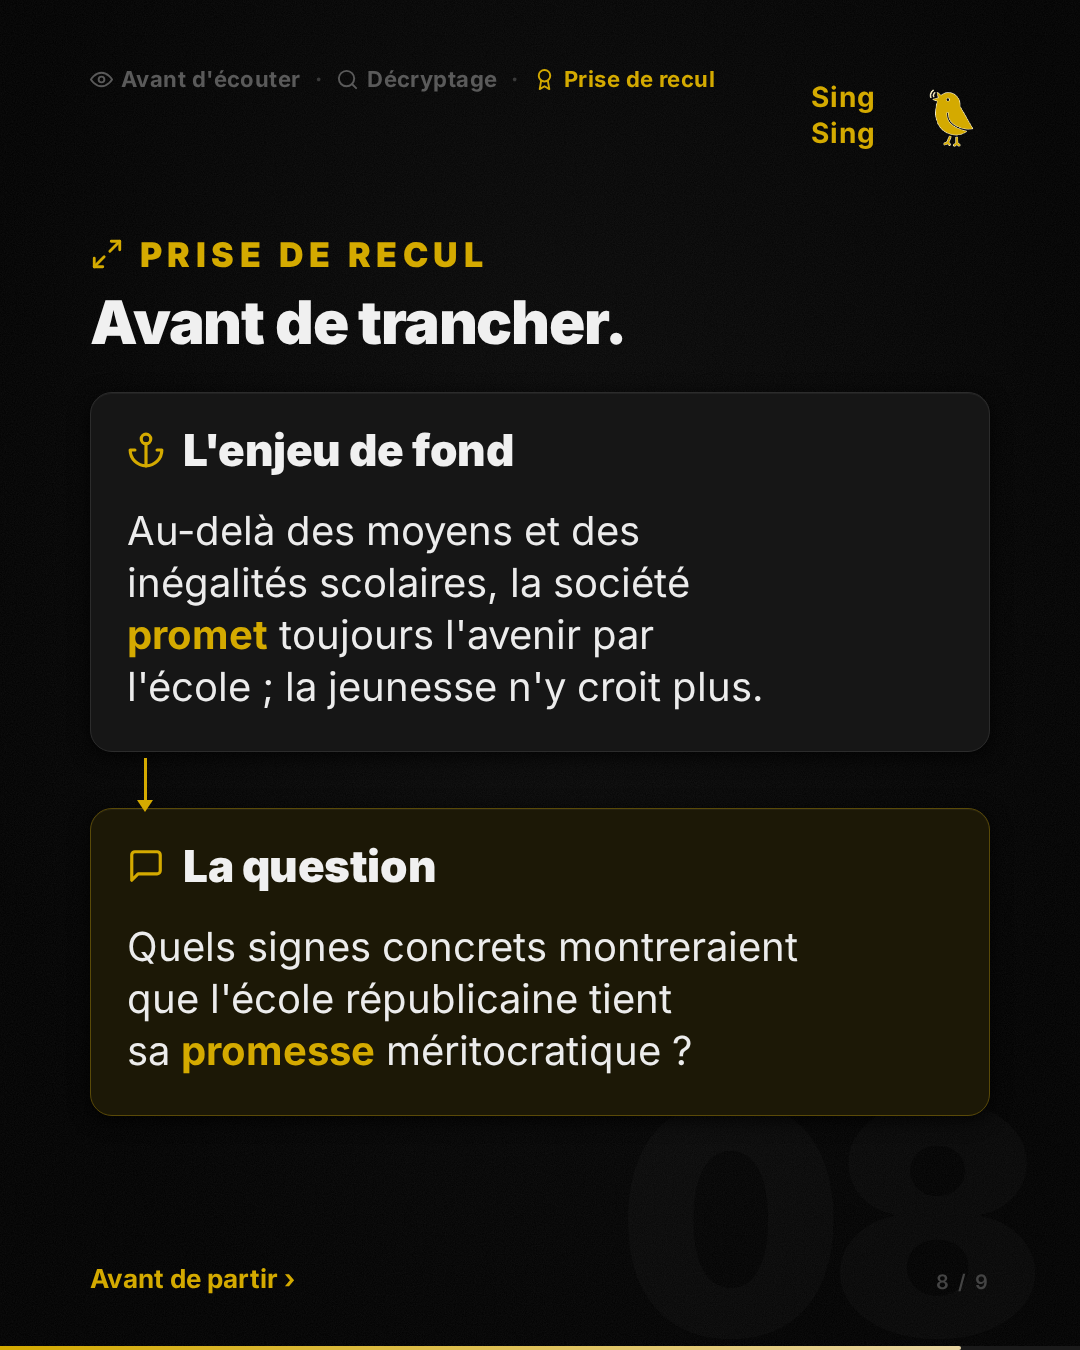
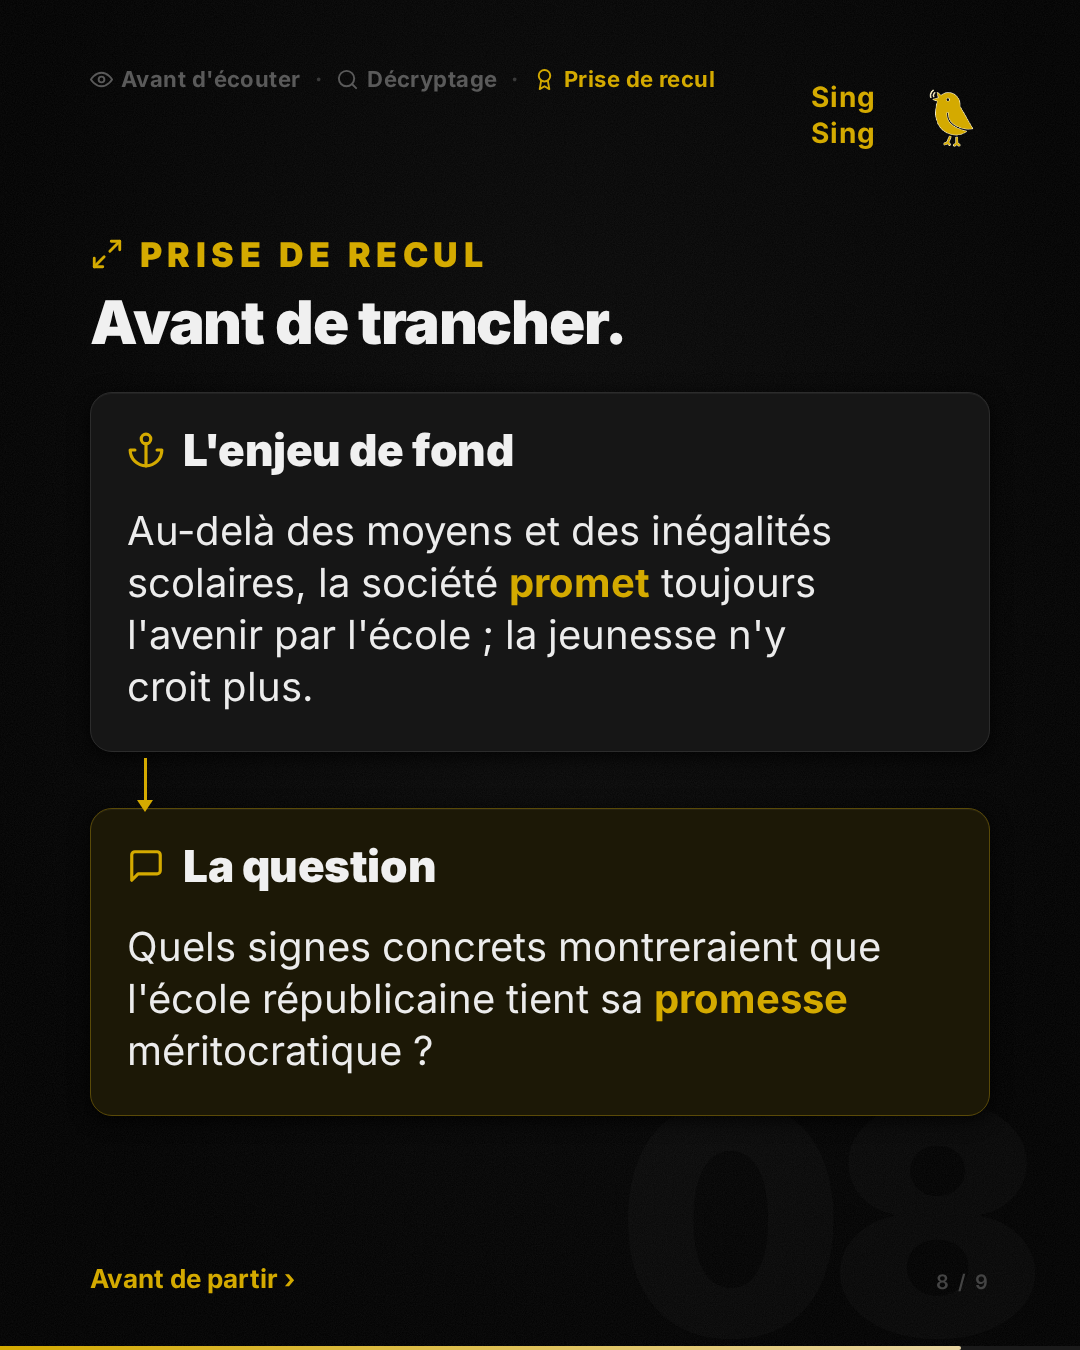
fix(carousel): slide 8 card text fills its line
text-wrap: balance evened the lines out and left the right of each card
empty; pretty fills each line and only reworks the paragraph's end.

Changed region(s): [[0.1222, 0.3733, 0.7639, 0.5289], [0.1222, 0.6844, 0.825, 0.8089]]

diff --git a/samples/podcasts/podcast_1/instagram_carousel_optimized/html/08_prise_de_recul.html b/samples/podcasts/podcast_1/instagram_carousel_optimized/html/08_prise_de_recul.html
@@ -425,7 +425,7 @@ body {
 .q-head .mk { flex: none; }
 .q-head .mk svg { width: 38px; height: 38px; display: block; stroke: #d4aa00; fill: none; stroke-width: 2; stroke-linecap: round; stroke-linejoin: round; }
 .q-label { font-size: 44px; font-weight: 900; line-height: 1.05; letter-spacing: -0.01em; color: #f0f0f0; }
-.card p { font-size: 40px; line-height: 1.3; color: #ececec; text-align: left; hyphens: none; text-wrap: balance; }
+.card p { font-size: 40px; line-height: 1.3; color: #ececec; text-align: left; hyphens: none; text-wrap: pretty; }
 .card p strong { color: #d4aa00; font-weight: 700; }
 </style>
 </head>

diff --git a/renderer/instagram_carousel/templates/article_carousel_optimized_v0/08_prise_de_recul.html b/renderer/instagram_carousel/templates/article_carousel_optimized_v0/08_prise_de_recul.html
@@ -22,7 +22,7 @@
 .q-head .mk { flex: none; }
 .q-head .mk svg { width: 38px; height: 38px; display: block; stroke: #d4aa00; fill: none; stroke-width: 2; stroke-linecap: round; stroke-linejoin: round; }
 .q-label { font-size: 44px; font-weight: 900; line-height: 1.05; letter-spacing: -0.01em; color: #f0f0f0; }
-.card p { font-size: 40px; line-height: 1.3; color: #ececec; text-align: left; hyphens: none; text-wrap: balance; }
+.card p { font-size: 40px; line-height: 1.3; color: #ececec; text-align: left; hyphens: none; text-wrap: pretty; }
 .card p strong { color: #d4aa00; font-weight: 700; }
 </style>
 </head>
